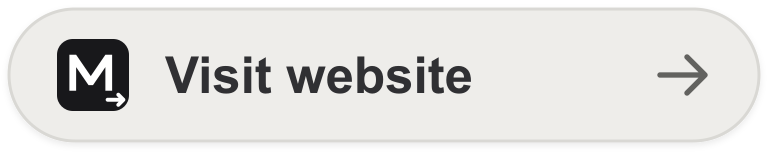
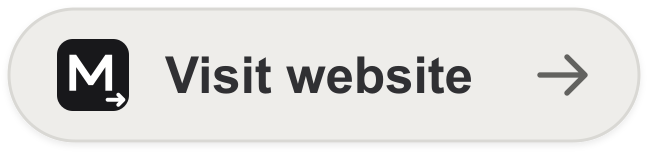
docs: tighten README copy and website button spacing

diff --git a/README.md b/README.md
@@ -14,7 +14,7 @@ A human layer for the plans, specs, and docs your AI agents write.
 [![License: MIT](https://img.shields.io/badge/license-MIT-18181b)](LICENSE)
 
 <a href="https://chromewebstore.google.com/detail/markside-%E2%80%94-markdown-viewe/ccokohfaicfjkilcakhnlckbbkhhknhj"><img src=".github/assets/install-chrome.png" alt="Install for Chrome" width="256" height="52" /></a>&nbsp;
-<a href="https://markside.app"><img src=".github/assets/visit-website.png" alt="Visit website" width="256" height="52" /></a>
+<a href="https://markside.app"><img src=".github/assets/visit-website.png" alt="Visit website" width="216" height="52" /></a>
 
 <p><sub><strong>WORKS WITH</strong></sub></p>
 
@@ -41,14 +41,13 @@ A human layer for the plans, specs, and docs your AI agents write.
 
 You spend more time than ever reviewing Markdown your agents write: plans, specs,
 research notes, and more. Reading raw Markdown in a terminal is awkward. Copying
-and pasting quotes for feedback is slow. Simple fixes mean opening an IDE or
-describing changes to an agent. Sharing and collecting human feedback means
-asking PMs to navigate a pull request. Or pasting Markdown into Google Docs,
-fighting the formatting, and keeping two versions in sync.
+quotes into chat is slow. Quick fixes mean opening an IDE or describing changes
+to an agent. Human feedback means asking PMs to navigate a pull request. Or
+pasting into Google Docs, fighting the formatting, and keeping two versions in sync.
 
 Markside turns the browser you already have open into a Markdown workspace:
 
-- **One workspace for every agent.** Read, review, and edit Markdown in the same place, whichever coding agent you use.
+- **One workspace for every agent.** Read, review, and edit Markdown from any coding agent.
 - **Read comfortably.** Rendered tables, diagrams, math, and code instead of raw syntax.
 - **Review precisely.** Comment on passages like in Google Docs, then copy one agent-ready prompt.
 - **Edit instantly.** Fix a sentence yourself and save it back to disk without describing the change through chat.
@@ -69,12 +68,9 @@ keyboard shortcuts, and sharing.
 
 ## Features
 
-- **Rich Markdown:** frontmatter, tables, task lists, GitHub-style alerts,
-  footnotes, math, wikilinks, heading anchors, and relative images.
-- **Code and diagrams:** syntax highlighting with copy buttons, and Mermaid
-  diagrams that follow the active theme.
-- **Agent-ready Review:** anchored Review Comments and an optional Review Note,
-  copied as one structured prompt or one comment at a time.
+- **Rich Markdown:** tables, tasks, alerts, math, footnotes, wikilinks, frontmatter, and more.
+- **Code and diagrams:** highlighted code with copy buttons and theme-aware Mermaid diagrams.
+- **Agent-ready Review:** anchored comments and an overall note, copied together or one comment at a time.
 - **Preview, Source, and Split:** a CodeMirror editor beside the live preview,
   with a resizable divider.
 - **Safe saving:** `Cmd+S` / `Ctrl+S` writes the original file. Auto Save is
